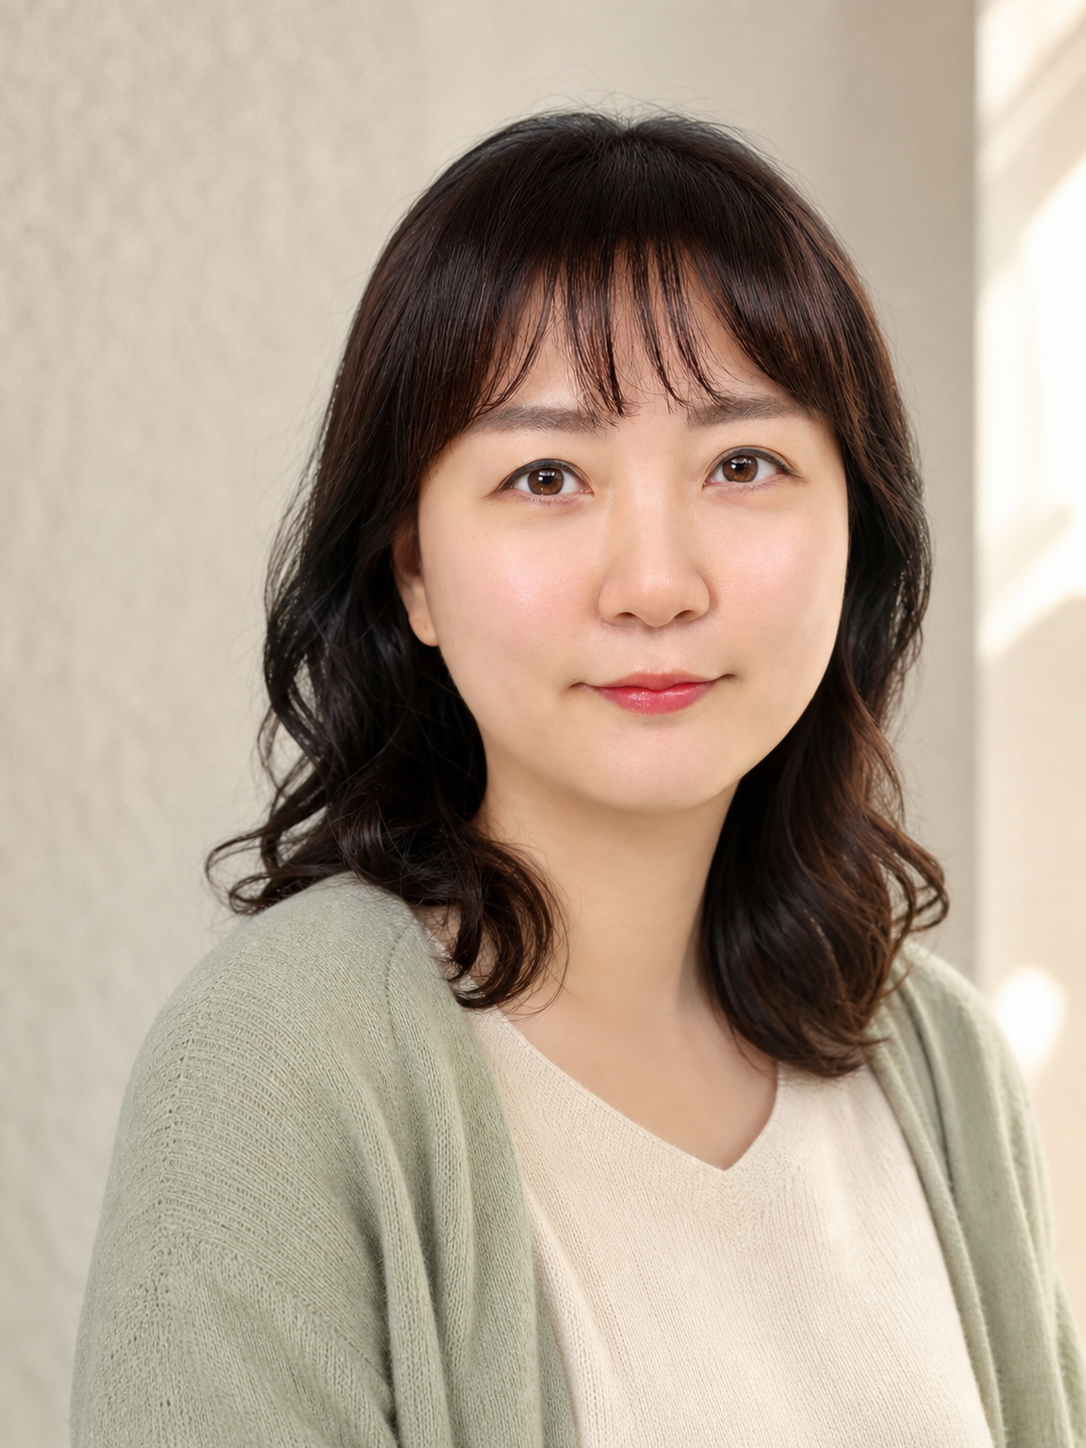
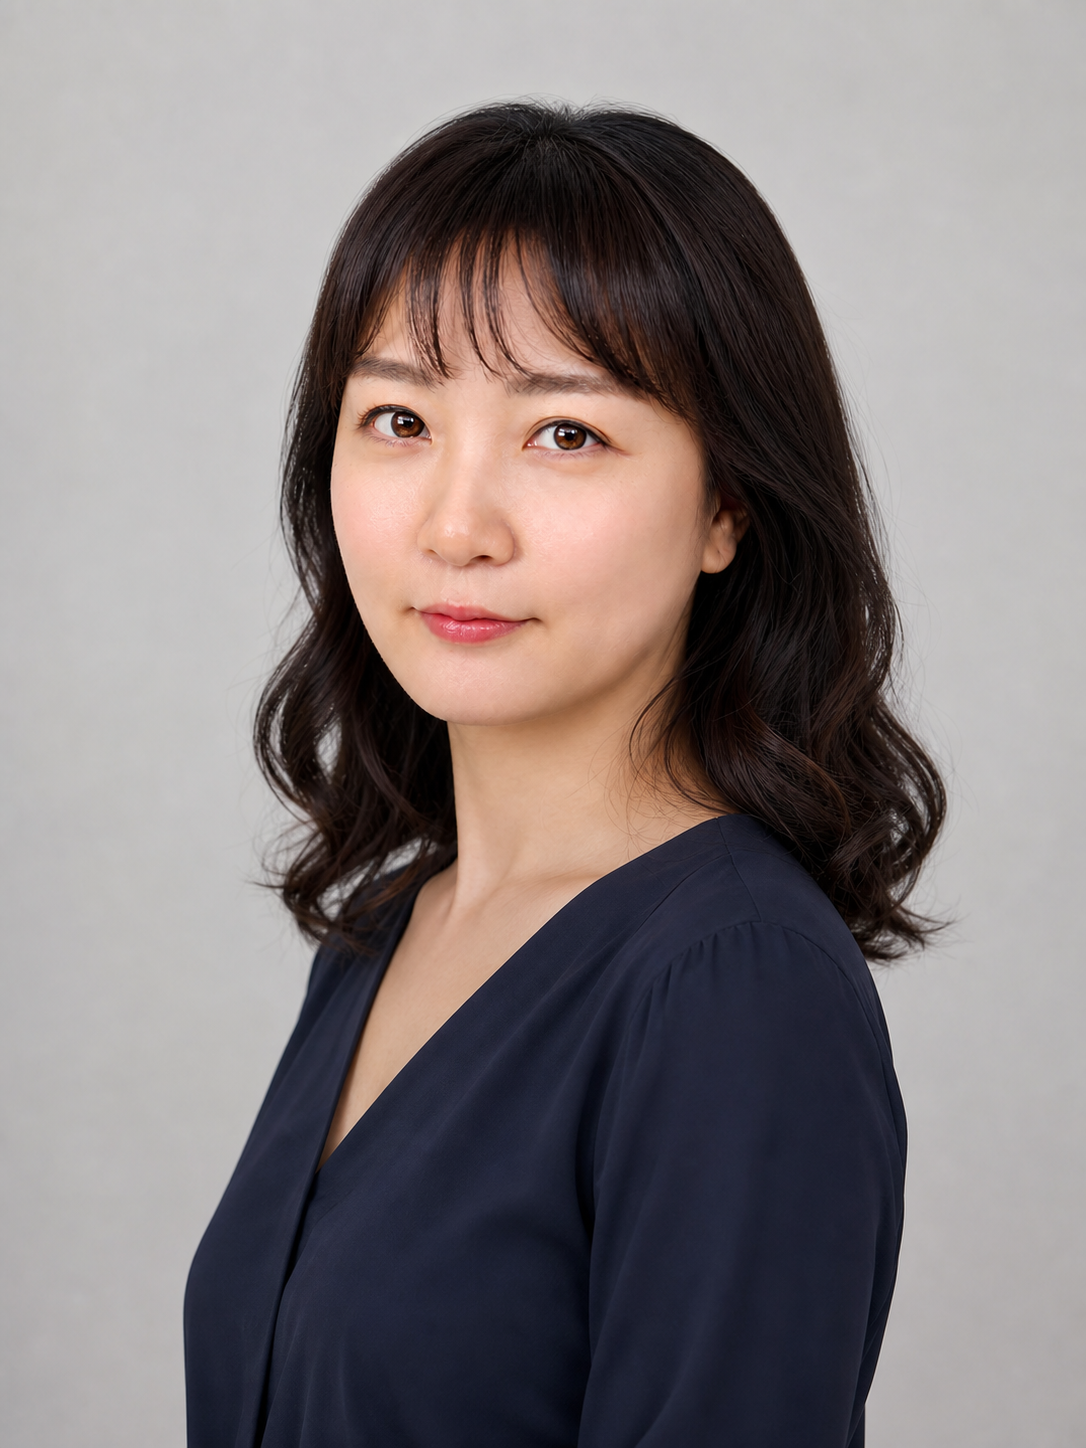
Update and resize CV profile portrait
Replace the CV portrait with the selected studio profile and reduce its display size across desktop and mobile.

diff --git a/style.css b/style.css
@@ -14,3 +14,6 @@
 @media(max-width:700px){.site-header{height:66px}.brand-copy small{display:none}.hero{padding:3.8rem 1.3rem 0}.hero-grid{grid-template-columns:1fr;gap:2.5rem}.hero h1{font-size:clamp(2.25rem,9.5vw,3rem)}.hero-actions{flex-direction:column}.expert-card{max-width:285px}.expert-photo{height:315px}.hero-index{grid-template-columns:1fr 1fr;gap:.8rem;margin-top:2.5rem}.hero-index span{padding:0;border:0}.authority{padding:1.6rem 1.3rem}.authority-inner{grid-template-columns:1fr 1fr}.authority-inner>div{padding:.7rem 0;border:0;border-top:1px solid rgba(255,255,255,.15)}.section{padding:5rem 1.3rem}.featured-project{padding:2rem 1.3rem}.featured-project h3{font-size:1.85rem}.project-meta,.project-grid,.skill-grid{grid-template-columns:1fr}.project-meta>div{border-right:0;border-bottom:1px solid #496069}.project-meta>div:last-child{border-bottom:0}.timeline article,.education-list article{grid-template-columns:1fr;gap:.3rem}.tool-groups article{grid-template-columns:1fr;gap:.25rem}.contact{padding:4rem 1.3rem}.contact h2{font-size:1.75rem}footer{padding:1.4rem 1.3rem}}
 @media print{.site-header,.hero-actions,.contact-note{display:none}.hero{padding:2rem}.hero-index,.authority{display:none}.section{padding:2rem;break-inside:avoid}.contact{padding:2rem}a{color:inherit}}
 .timeline .accent>div{padding-left:.65rem}
+.hero-grid{grid-template-columns:minmax(0,1.45fr) 240px}.expert-photo{height:270px}
+@media(max-width:960px){.hero-grid{grid-template-columns:1fr 225px}}
+@media(max-width:700px){.hero-grid{grid-template-columns:1fr}.expert-card{max-width:245px}.expert-photo{height:275px}}

diff --git a/index.html b/index.html
@@ -6,7 +6,7 @@
   <meta name="description" content="마케팅 분석력과 콘텐츠 기획 경험을 AI·SW 교육으로 확장하는 문여울의 웹 CV입니다.">
   <meta name="theme-color" content="#173b36">
   <title>문여울 | AI 디지털 교육자</title>
-  <link rel="stylesheet" href="style.css?v=20260813-5">
+  <link rel="stylesheet" href="style.css?v=20260814-1">
 </head>
 <body>
   <a class="skip-link" href="#main">본문 바로가기</a>
